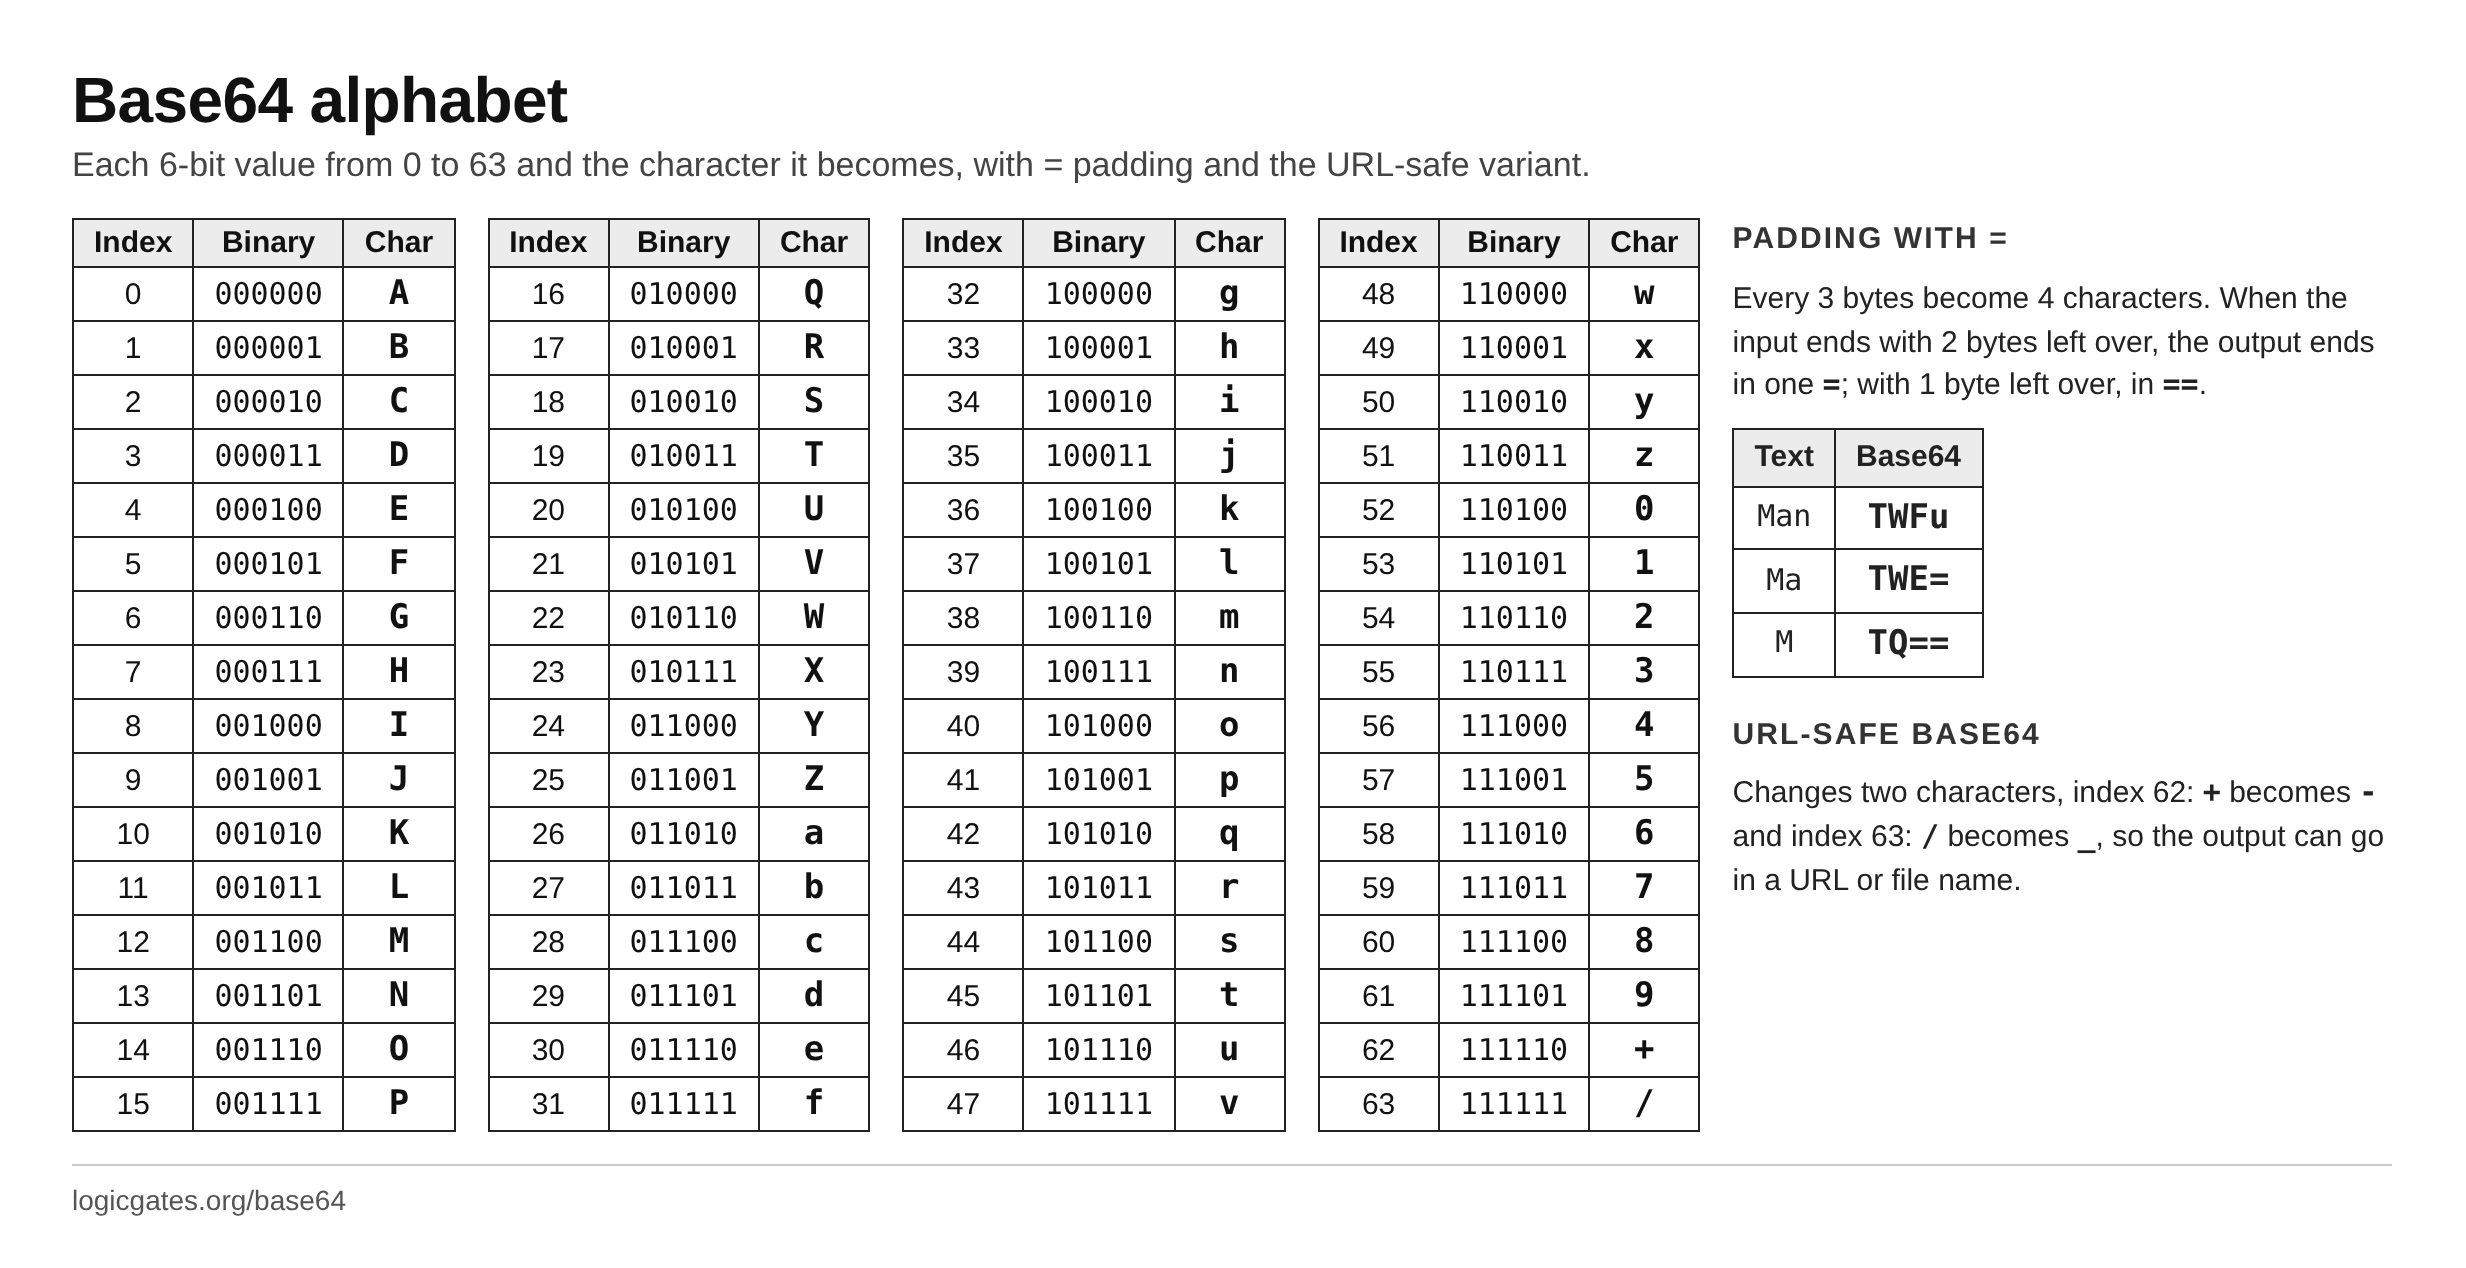
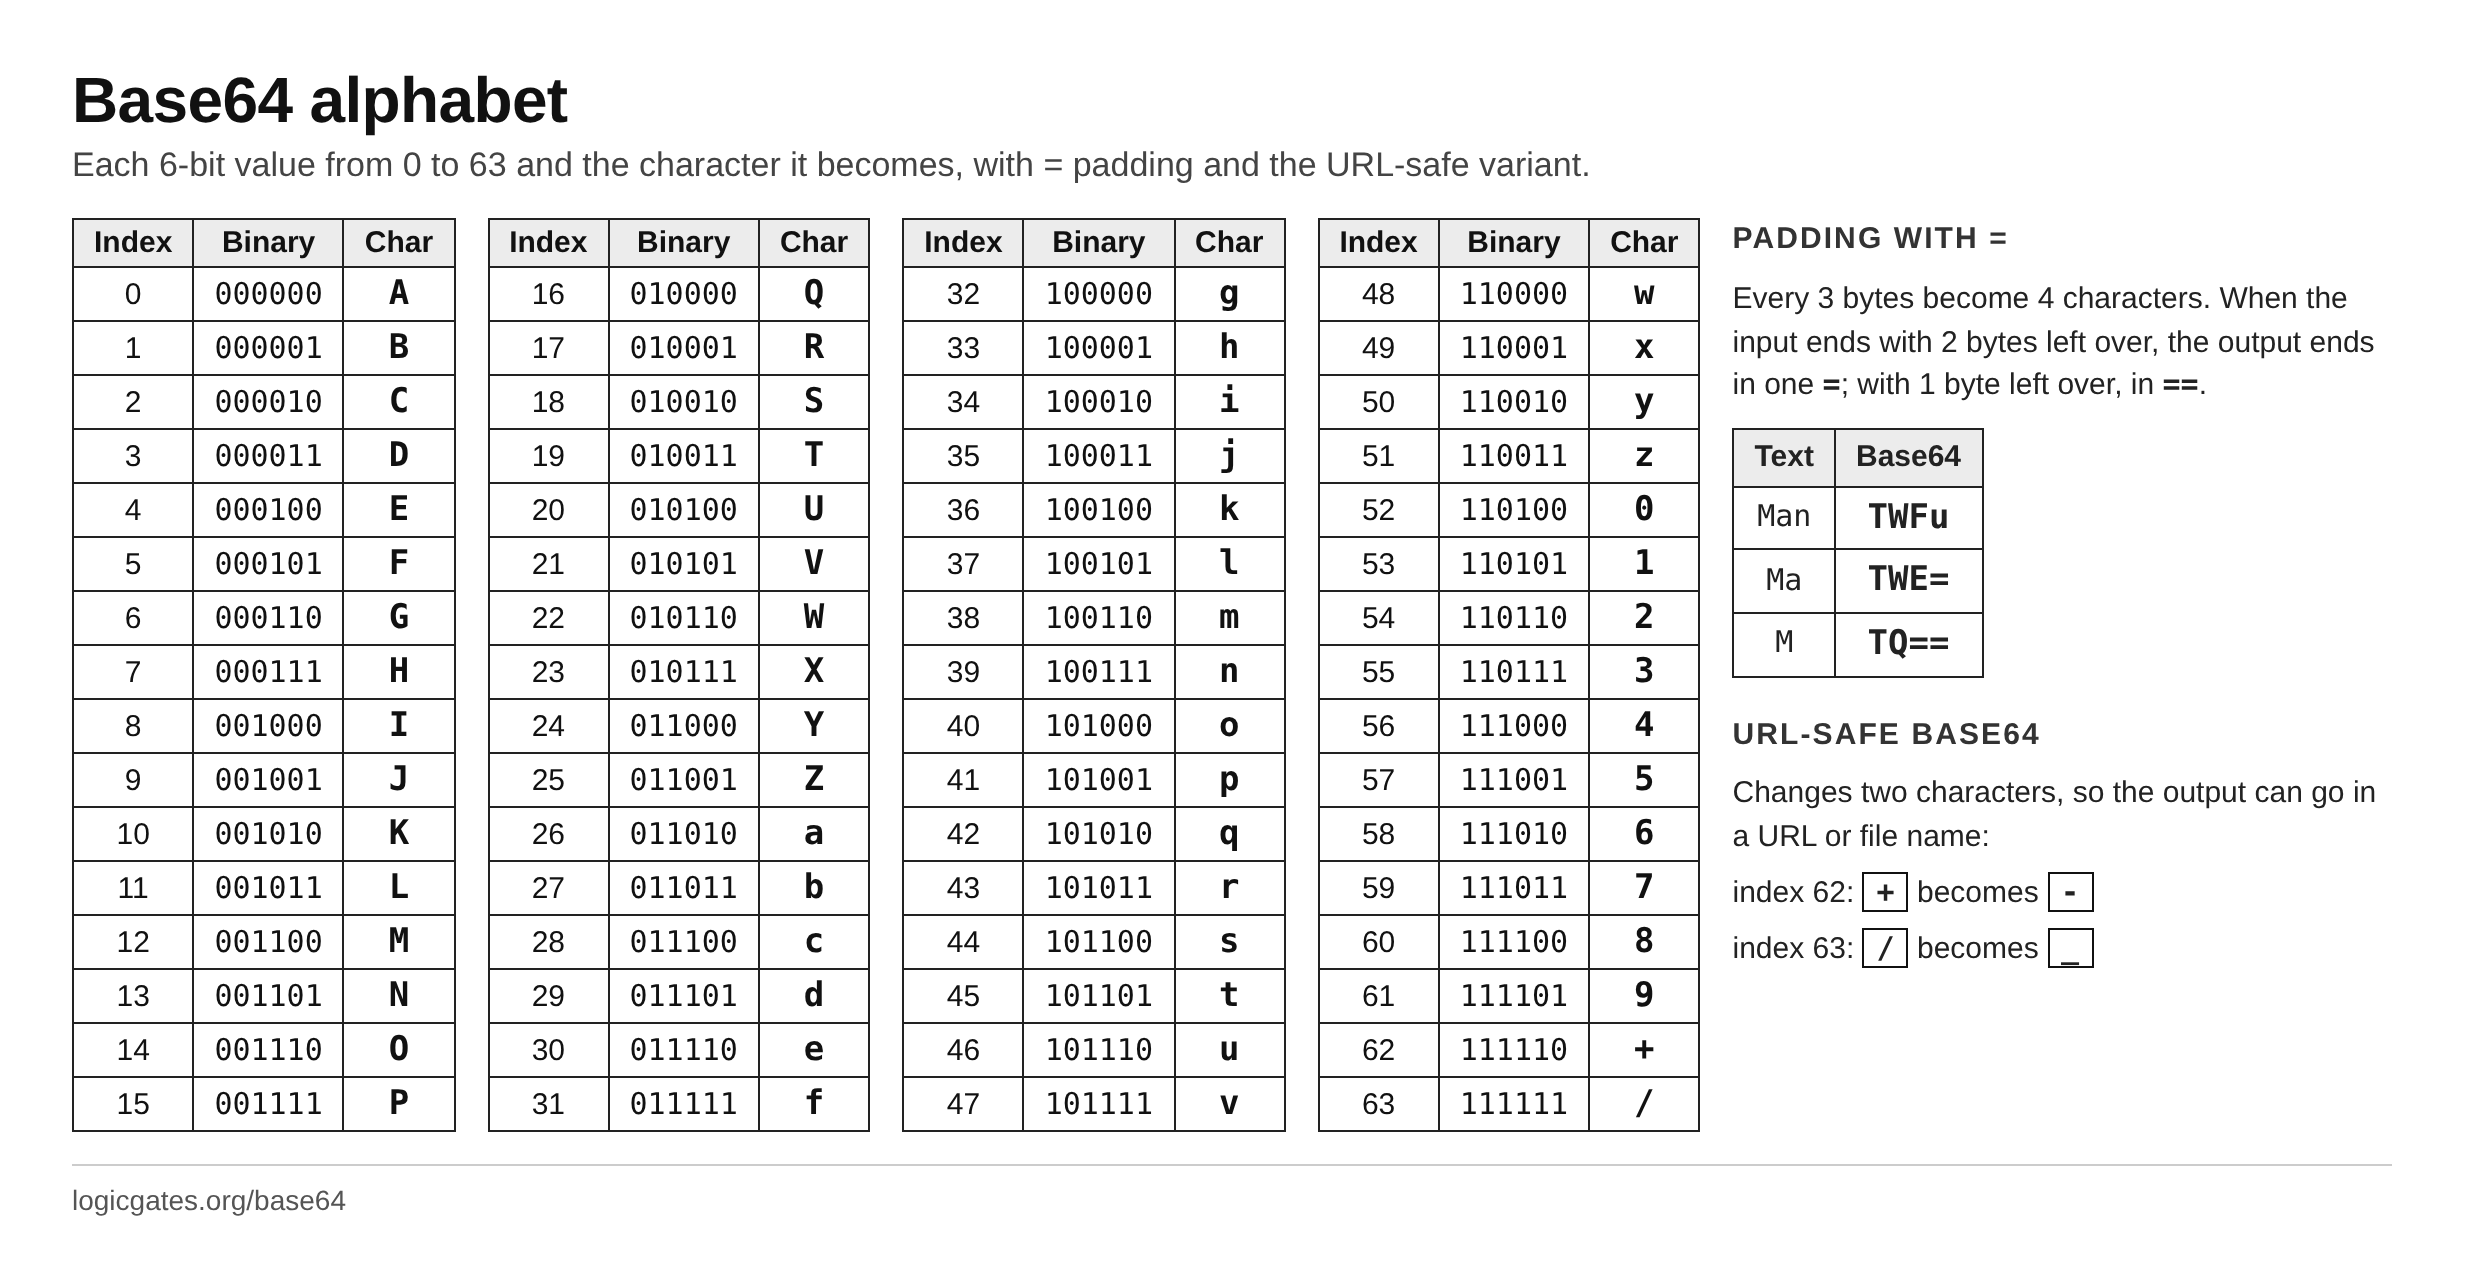
Box the URL-safe characters on the Base64 chart
A line break could fall right before "-", which then read as a
hyphenated word break rather than the replacement character. Each pair
is now on its own line with both characters boxed.

Claude-Session: https://claude.ai/code/session_01JDSFXz2KToCVnHYXiQzZZu

Changed region(s): [[0.6869, 0.6151, 0.968, 0.7689]]

diff --git a/scripts/reference-charts.ts b/scripts/reference-charts.ts
@@ -641,7 +641,12 @@ const plural = (n: number, word: string, many = `${word}s`) => `${n} ${n === 1 ?
 		.map((ch, i) =>
 			ch === BASE64URL_ALPHABET[i]
 				? ''
-				: `index ${i}: <b class="mono">${esc(ch)}</b> becomes <b class="mono">${esc(BASE64URL_ALPHABET[i])}</b>`
+				: // Each character boxed, and the pair kept on one line, so a - cannot read as a hyphen.
+				  `<li style="white-space:nowrap">index ${i}: <b class="mono" style="border:1px solid #111;padding:0 6px">${esc(
+						ch
+				  )}</b> becomes <b class="mono" style="border:1px solid #111;padding:0 6px">${esc(
+						BASE64URL_ALPHABET[i]
+				  )}</b></li>`
 		)
 		.filter(Boolean);
 	const note = `<div class="note" style="max-width:330px">
@@ -651,7 +656,8 @@ const plural = (n: number, word: string, many = `${word}s`) => `${n} ${n === 1 ?
 				.map((e) => `<tr><td class="mono">${e.text}</td><td class="mono ch">${e.out}</td></tr>`)
 				.join('')}</tbody></table>
       <h2 style="margin-top:18px">URL-safe Base64</h2>
-      <p>Changes two characters, ${urlDiff.join(' and ')}, so the output can go in a URL or file name.</p>
+      <p>Changes two characters, so the output can go in a URL or file name:</p>
+      <ul style="list-style:none;margin-top:6px;display:flex;flex-direction:column;gap:6px">${urlDiff.join('')}</ul>
     </div>`;
 	charts.push({
 		file: 'base64-alphabet-chart.png',
